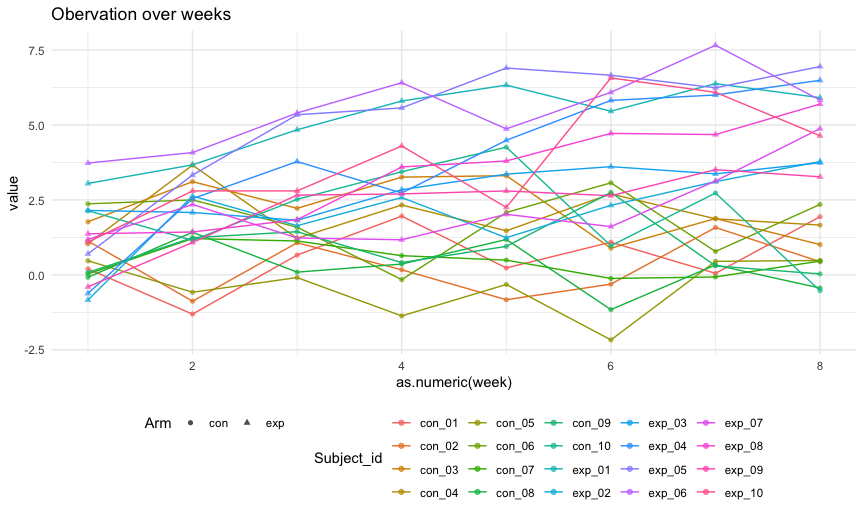
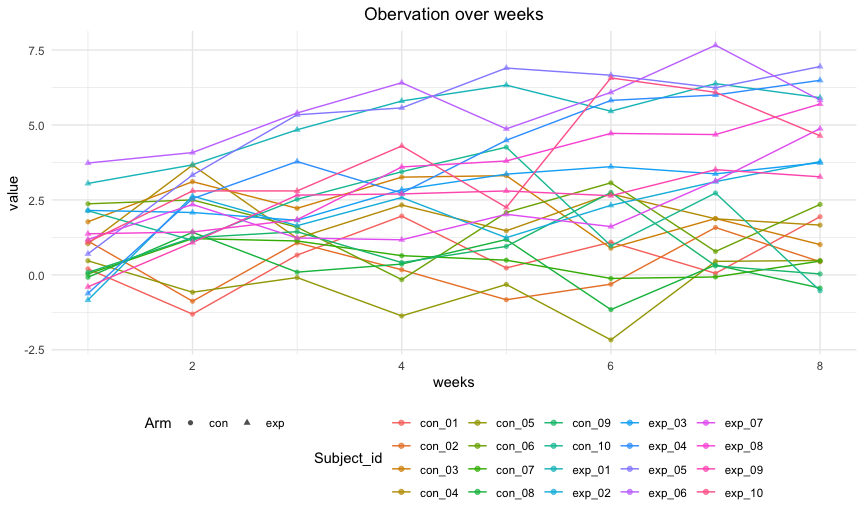
change in question 2

Changed region(s): [[0.4062, 0.0, 0.625, 0.0618], [0.0625, 0.0, 0.2812, 0.0618], [0.4688, 0.7104, 0.5938, 0.7722]]

diff --git a/p8105_hw5_js5962.md b/p8105_hw5_js5962.md
@@ -154,7 +154,7 @@ result_df =
     test_result = purrr::map(data, prop_test),
     tidy_result = purrr::map(test_result, broom::tidy)
   ) %>% 
-  select(city_state, tidy_result) %>% 
+  select(-test_result) %>% 
   unnest(tidy_result) %>% 
   select(city_state, estimate, conf.low, conf.high)
 show(result_df)
@@ -188,7 +188,7 @@ result_df2 =
     test_result = purrr::map2(unsolved, n, prop.test),
     tidy_result = purrr::map(test_result, broom::tidy)
   ) %>% 
-  select(city_state, tidy_result) %>% 
+  select(-test_result) %>% 
   unnest(tidy_result) %>% 
   select(city_state, estimate, conf.low, conf.high)
 show(result_df2)
@@ -280,14 +280,16 @@ and comment on differences between groups.
 new_df %>% 
   ggplot(aes(x = as.numeric(week), y = value, color = as.factor(subject_id))) +
   geom_line() + geom_point(aes(shape = as.factor(arm)), alpha = 0.7) +
-  labs(title = "Obervation over weeks") +
+  labs(title = "Obervation over weeks", x = "weeks", y = "value") +
   scale_colour_hue("Subject_id") +
-  scale_shape("Arm")
+  scale_shape("Arm") +
+  theme(plot.title = element_text(hjust = 0.5))
 ```
 
 <img src="p8105_hw5_js5962_files/figure-gfm/spaghetti-1.png" width="90%" />
 
-comment
+comment: observations show that the experiment groups increase much more
+than the control groups over time.
 
 ## Problem 3
 
@@ -305,12 +307,14 @@ refill missing data function
 
 ``` r
 refill_miss = function(miss) {
-  
-  if(is.numeric(miss)) {
-    mean_miss = round(mean(miss, na.rm = TRUE), digits = 2)
+
+# For numeric variables
+  if (is.numeric(miss)) {
+    mean_miss = round(mean(miss, na.rm = TRUE), digits = 3)
     miss = replace_na(miss, mean_miss)
   }
-  
+
+# For character variables
   if (is.character(miss)) {
     miss = replace_na(miss, "virginica")
   }
@@ -321,12 +325,22 @@ refill_miss = function(miss) {
 Then Refill and Build the new data
 
 ``` r
-iris_new = map(iris_with_missing, missing) %>% 
+iris_new = map(iris_with_missing, refill_miss) %>% 
   bind_cols()
 iris_new
 ```
 
-    ## # A tibble: 1 × 5
-    ##   Sepal.Length Sepal.Width Petal.Length Petal.Width Species
-    ##   <lgl>        <lgl>       <lgl>        <lgl>       <lgl>  
-    ## 1 FALSE        FALSE       FALSE        FALSE       FALSE
+    ## # A tibble: 150 × 5
+    ##    Sepal.Length Sepal.Width Petal.Length Petal.Width Species
+    ##           <dbl>       <dbl>        <dbl>       <dbl> <chr>  
+    ##  1         5.1          3.5         1.4         0.2  setosa 
+    ##  2         4.9          3           1.4         0.2  setosa 
+    ##  3         4.7          3.2         1.3         0.2  setosa 
+    ##  4         4.6          3.1         1.5         1.19 setosa 
+    ##  5         5            3.6         1.4         0.2  setosa 
+    ##  6         5.4          3.9         1.7         0.4  setosa 
+    ##  7         5.82         3.4         1.4         0.3  setosa 
+    ##  8         5            3.4         1.5         0.2  setosa 
+    ##  9         4.4          2.9         1.4         0.2  setosa 
+    ## 10         4.9          3.1         3.76        0.1  setosa 
+    ## # … with 140 more rows
